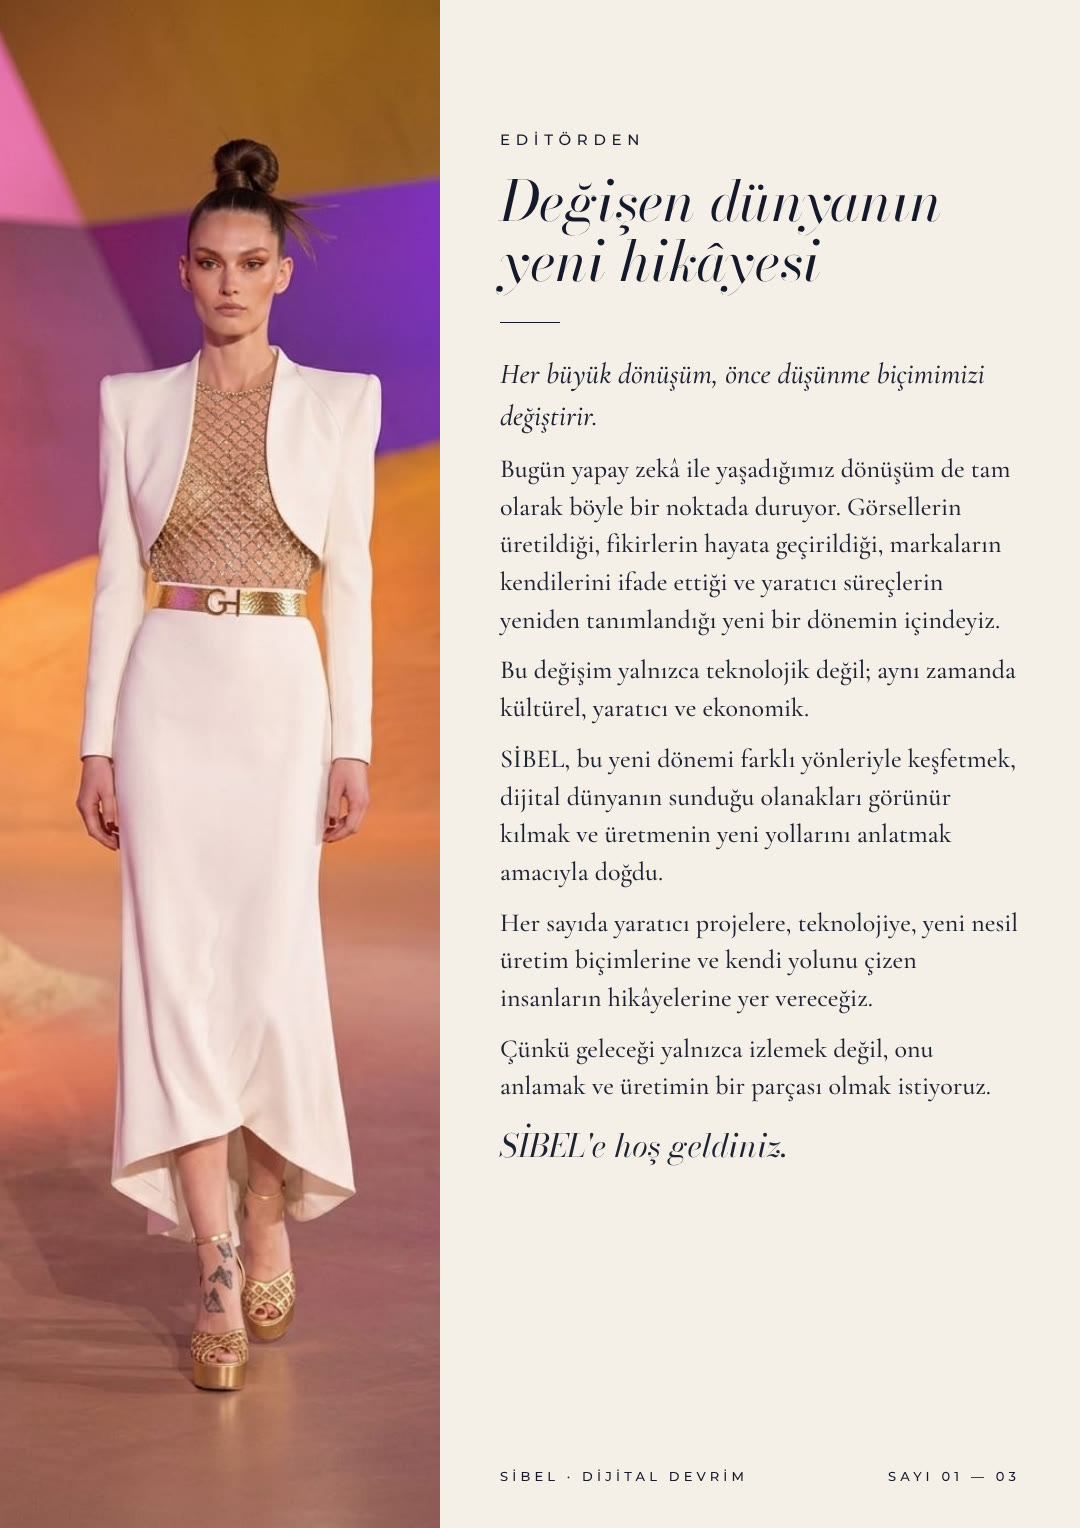
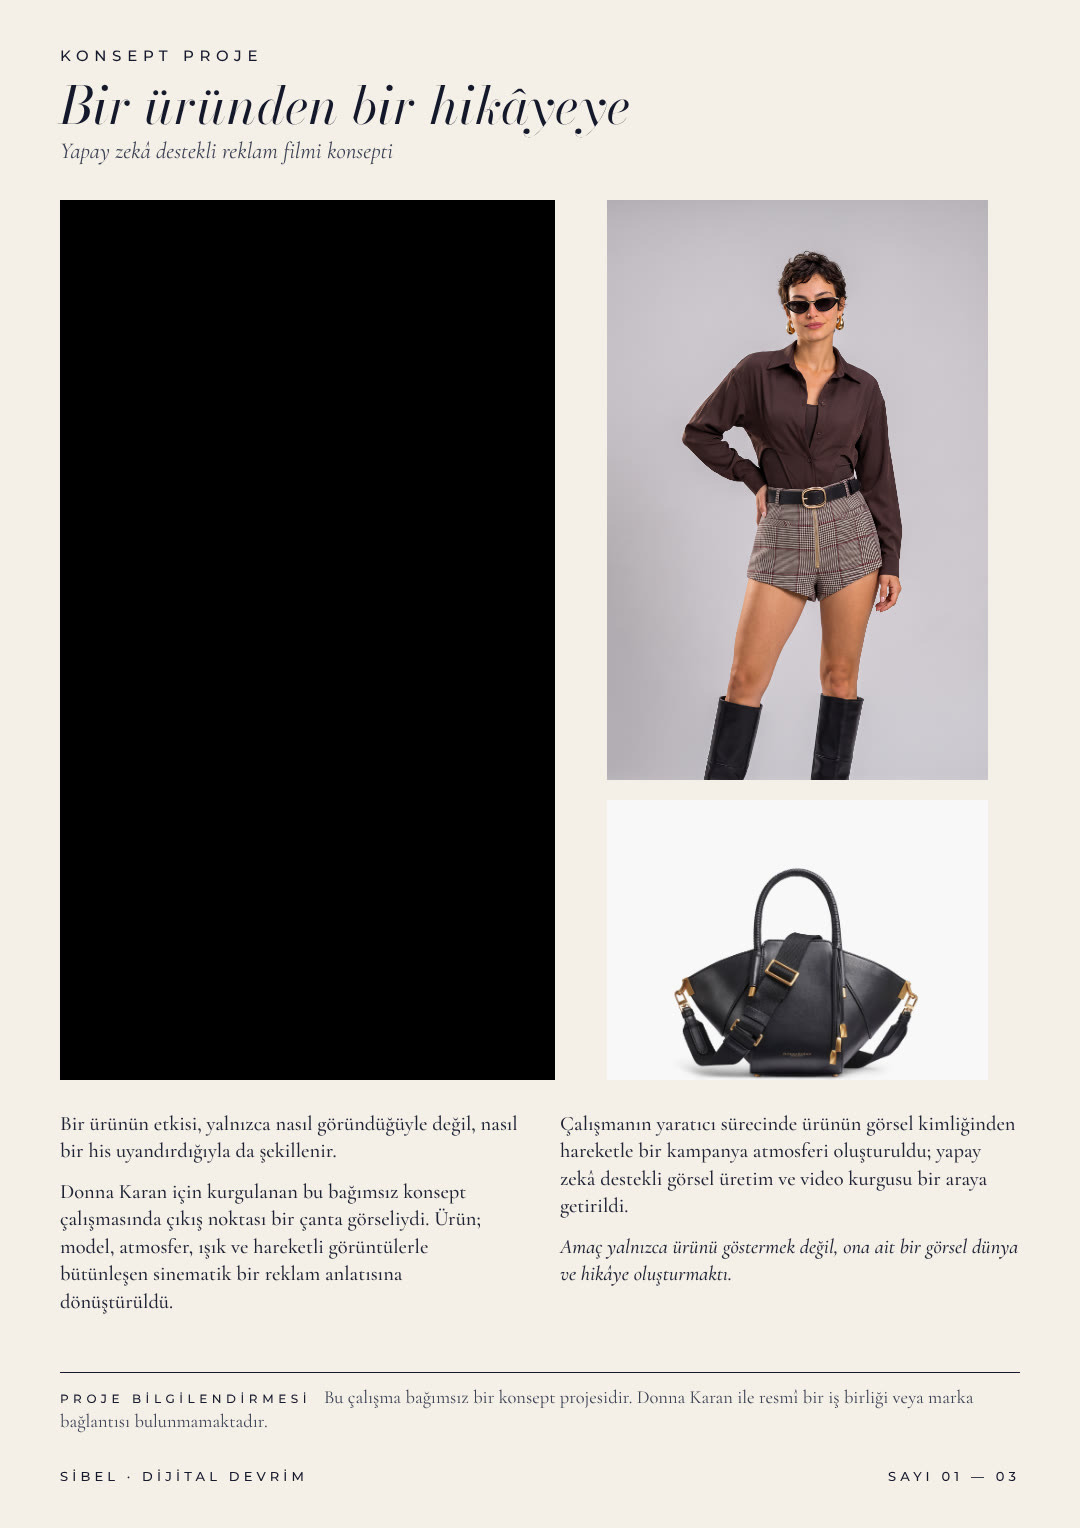
3. ve 6. sayfaların yeri değiştirildi, sayfa numaraları düzeltildi
Claude-Session: https://claude.ai/code/session_016gUmYv4onVZu4A3LtLs3UK

diff --git a/index.html b/index.html
@@ -77,7 +77,7 @@ nav .zoom{width:auto;padding:0 16px;border-radius:22px;font:600 13px Montserrat,
 <script>
 {
 const pages=["t1.jpg","t2.jpg","t3.jpg","t4.jpg","t5.jpg","t6.jpg","t7.jpg"];
-const FILM=5;
+const FILM=2;
 const stage=document.getElementById('stage');
 stage.innerHTML=pages.map((src,i)=>`<div class="leaf" style="z-index:${pages.length-i}">
   <div class="face front"><img src="${src}" alt="Sayfa ${i+1}">${i===3?'<div class="film2"><video id="vid2" src="dress.mp4" playsinline muted autoplay preload="auto"></video><button class="sound" id="sound2">Sesi aç</button></div>':''}${i===FILM?`<div class="film" id="film"><video id="vid" src="film2.mp4" playsinline preload="metadata"></video><div class="play"></div><button class="sound" id="sound" hidden>Sesi aç</button></div>`:''}<div class="shade"></div></div>
